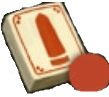
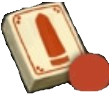
Improved stattus bar optic

diff --git a/Ancient-Dragons/Factories/GUI_Factory.py b/Ancient-Dragons/Factories/GUI_Factory.py
@@ -119,10 +119,9 @@ class GUIFactory():
         color = pygame.Color(0, 0, 245)
         highlight = pygame.Color(0, 0, 255)
         entity = self.ecso_context.add_entity()
-        pull_stack = Button(entity, "INTERACTIBLE_BUTTON_SPRITE", gui_cards.rect, color, highlight, "", "STACK", 50, 50, "Ressources/Pictures/pull_stack.png")
+        pull_stack = InteractibleLabel(entity, "INTERACTIBLE_STACK_LABEL", gui_cards.rect, "", color, 50, 50, image_path="Ressources/Pictures/pull_stack.png")
         pull_stack.relative_x = 25
         pull_stack.relative_y = (gui_cards.rect.height - pull_stack.rect.height) - 25
-        pull_stack.set_text("STACK")
         pull_stack.font_size = 32
         self.ecso_context.add_game_object(entity, pull_stack)
         self.renderer.add_sprite(SpriteGroupTypes.INTERACTIBLES, pull_stack)
@@ -399,14 +398,14 @@ class GUIFactory():
             status_bar.add_interactible(label_enemy_name.context_id)
 
             player = cast(PlayerCharacter, self.ecso_context.get_game_object(scene.active_player_character, PlayerCharacter))
-            label_player_health = InteractibleLabel(self.ecso_context.add_entity(), "INTERACTIBLE_STATUS_BAR_PLAYER_HEALTH", status_bar.rect, "", (255, 255, 0), 100, status_bar.rect.height, str(player.get_health_max()) + "/" + str(player.get_health()), (255, 0, 0), "Ressources/Pictures/gui.jpg")
+            label_player_health = InteractibleLabel(self.ecso_context.add_entity(), "INTERACTIBLE_STATUS_BAR_PLAYER_HEALTH", status_bar.rect, "", (255, 255, 0), 100, status_bar.rect.height, str(player.get_health_max()) + "/" + str(player.get_health()), (255, 0, 0), "Ressources/Pictures/status_bar_health.png")
             label_player_health.relative_x = 260
             label_player_health.font_size = 20
             self.ecso_context.add_game_object(label_player_health.context_id, label_player_health)
             self.renderer.add_sprite(SpriteGroupTypes.INTERACTIBLES, label_player_health)
             status_bar.add_interactible(label_player_health.context_id)
 
-            label_player_currency = InteractibleLabel(self.ecso_context.add_entity(), "INTERACTIBLE_STATUS_BAR_PLAYER_CURRENCY", status_bar.rect, "", (255, 255, 0), 100, status_bar.rect.height, str(player.get_gold()), (255, 255, 255), "Ressources/Pictures/gui.jpg")
+            label_player_currency = InteractibleLabel(self.ecso_context.add_entity(), "INTERACTIBLE_STATUS_BAR_PLAYER_CURRENCY", status_bar.rect, "", (255, 255, 0), 100, status_bar.rect.height, str(player.get_gold()), (255, 255, 255), "Ressources/Pictures/status_bar_currency.png")
             label_player_currency.relative_x = 380
             label_player_currency.font_size = 20
             self.ecso_context.add_game_object(label_player_currency.context_id, label_player_currency)
@@ -420,14 +419,14 @@ class GUIFactory():
             self.renderer.add_sprite(SpriteGroupTypes.INTERACTIBLES, label_current_level)
             status_bar.add_interactible(label_current_level.context_id)
 
-            label_player_deck = InteractibleLabel(self.ecso_context.add_entity(), "INTERACTIBLE_STATUS_BAR_PLAYER_DECK", status_bar.rect, "", (255, 255, 0), status_bar.rect.height, status_bar.rect.height, "DECK", (255, 255, 255), "Ressources/Pictures/gui.jpg")
+            label_player_deck = InteractibleLabel(self.ecso_context.add_entity(), "INTERACTIBLE_STATUS_BAR_PLAYER_DECK", status_bar.rect, "", (255, 255, 0), status_bar.rect.height, status_bar.rect.height, "DECK", (255, 255, 255), "Ressources/Pictures/pull_stack.png")
             label_player_deck.relative_x = window_rect.width - 160
             label_player_deck.font_size = 20
             self.ecso_context.add_game_object(label_player_deck.context_id, label_player_deck)
             self.renderer.add_sprite(SpriteGroupTypes.INTERACTIBLES, label_player_deck)
             status_bar.add_interactible(label_player_deck.context_id)
 
-            label_settings = InteractibleLabel(self.ecso_context.add_entity(), "INTERACTIBLE_STATUS_BAR_SETTINGS", status_bar.rect, "", (100, 100, 100), status_bar.rect.height, status_bar.rect.height, "COG", (255, 255, 255), "Ressources/Pictures/gui.jpg")
+            label_settings = InteractibleLabel(self.ecso_context.add_entity(), "INTERACTIBLE_STATUS_BAR_SETTINGS", status_bar.rect, "", (100, 100, 100), status_bar.rect.height, status_bar.rect.height, "", (255, 255, 255), "Ressources/Pictures/settings_cog.png")
             label_settings.relative_x = window_rect.width - 70
             label_settings.font_size = 20
             label_settings.callback_on_click = scene.callback_level_end
@@ -476,7 +475,7 @@ class GUIFactory():
                         if player is not None:
                             interactible.color_text = (255, 255, 0)
                             interactible.font_size = 24
-                            styled_currency = "GOLD: " + str(player.get_gold())
+                            styled_currency = str(player.get_gold())
                             interactible.set_text(styled_currency)
                     case "INTERACTIBLE_STATUS_BAR_CURRENT_ROUND":
                         styled_round = "LEVEL: " + str(scene.current_round)
